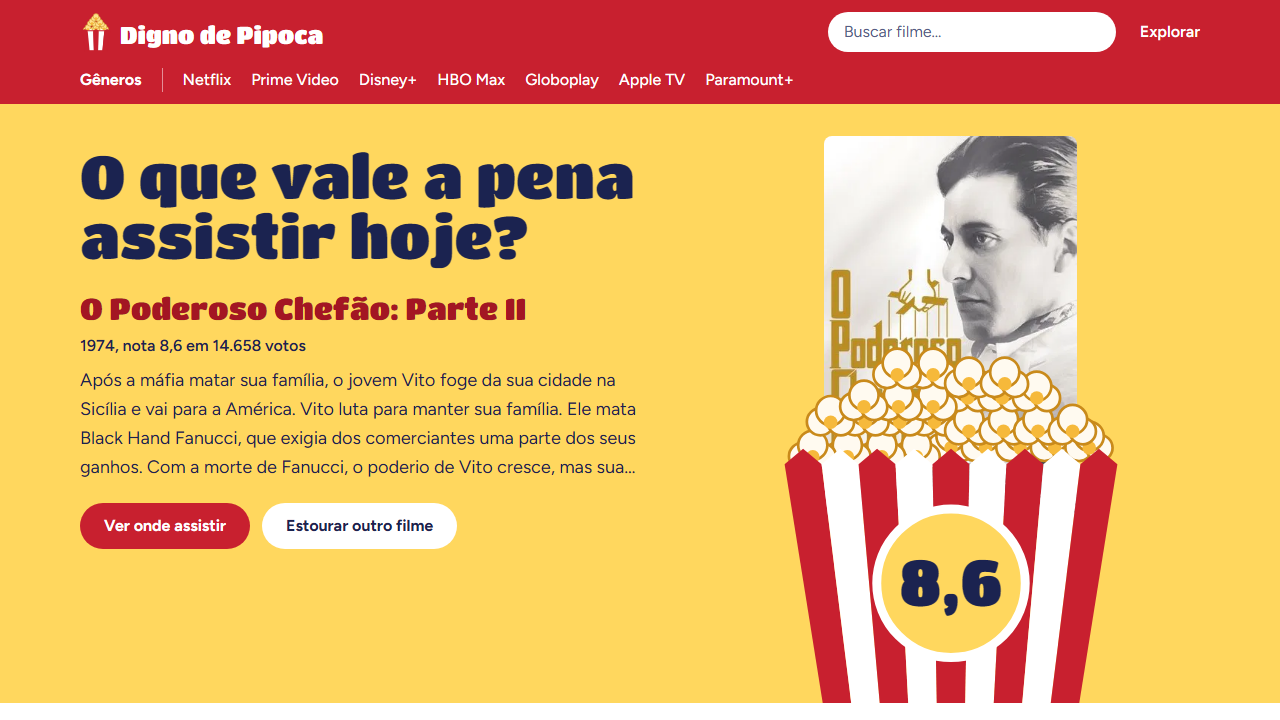
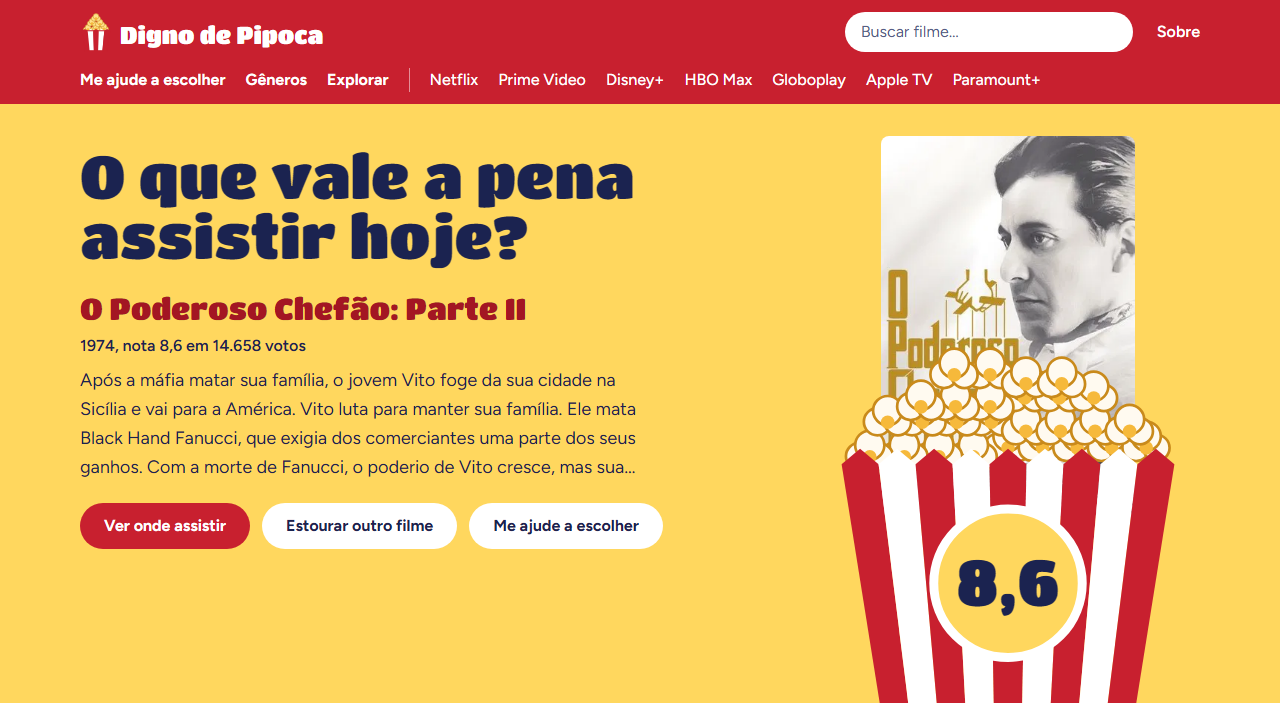
fix: link Sobre no topo e botão Me ajude a escolher no padrão do site

diff --git a/src/components/FeaturedPicker.tsx b/src/components/FeaturedPicker.tsx
@@ -40,7 +40,7 @@ export function FeaturedPicker({ movies, heading = "O que vale a pena assistir h
 
   return (
     <section aria-label="Filme em destaque" className="faixa -mt-6 mb-8 overflow-hidden bg-butter">
-      <div className="grid gap-x-12 gap-y-6 pt-8 lg:min-h-[36rem] lg:grid-cols-[1.15fr_1fr] lg:grid-rows-[1fr_auto_1fr]">
+      <div className="grid gap-x-8 gap-y-6 xl:gap-x-12 pt-8 lg:min-h-[36rem] lg:grid-cols-[1fr_24rem] lg:grid-rows-[1fr_auto_1fr]">
         <div className="space-y-2 lg:self-end">
           <h1 className="text-4xl sm:text-5xl lg:text-6xl">{heading}</h1>
           {note && <p className="text-lg font-semibold">{note}</p>}
@@ -83,7 +83,7 @@ export function FeaturedPicker({ movies, heading = "O que vale a pena assistir h
               {movie.overview && <p className="line-clamp-4 max-w-xl text-lg leading-relaxed">{movie.overview}</p>}
             </div>
           </div>
-          <div className="flex flex-wrap gap-3">
+          <div className="flex flex-wrap gap-2 xl:gap-3">
             <Link href={`/filme/${movie.id}`} className="botao">
               Ver onde assistir
             </Link>
@@ -93,7 +93,7 @@ export function FeaturedPicker({ movies, heading = "O que vale a pena assistir h
               </button>
             )}
             {helpLink && (
-              <Link href="/escolher" className="self-center font-bold underline underline-offset-4">
+              <Link href="/escolher" className="botao botao-claro">
                 Me ajude a escolher
               </Link>
             )}

diff --git a/src/components/Header.tsx b/src/components/Header.tsx
@@ -22,20 +22,25 @@ export function Header() {
             className="w-full rounded-full bg-white px-4 py-2 text-foreground placeholder:text-muted"
           />
         </form>
-        <Link href="/explorar" className="ml-auto font-semibold underline-offset-4 hover:underline sm:ml-0">
-          Explorar
+        <Link href="/sobre" className="ml-auto font-semibold underline-offset-4 hover:underline sm:ml-0">
+          Sobre
         </Link>
       </div>
-      <nav aria-label="Gêneros e serviços" className="mx-auto max-w-6xl trilho overflow-x-auto px-4 pb-2">
+      <nav aria-label="Navegação principal" className="mx-auto max-w-6xl trilho overflow-x-auto px-4 pb-2">
         <ul className="flex gap-5 py-1 font-medium whitespace-nowrap">
           <li>
             <Link href="/escolher" className="font-bold underline-offset-4 hover:underline">
               Me ajude a escolher
             </Link>
           </li>
-          <li className="border-r border-white/50 pr-5">
+          <li>
             <Link href="/generos" className="font-bold underline-offset-4 hover:underline">
               Gêneros
+            </Link>
+          </li>
+          <li className="border-r border-white/50 pr-5">
+            <Link href="/explorar" className="font-bold underline-offset-4 hover:underline">
+              Explorar
             </Link>
           </li>
           {COVERED_SERVICES.map((s) => (

diff --git a/tests/components/basics.test.tsx b/tests/components/basics.test.tsx
@@ -66,6 +66,7 @@ describe("Header", () => {
     expect(input.closest("form")).toHaveAttribute("action", "/busca");
     expect(screen.getByRole("link", { name: "Digno de Pipoca" })).toHaveAttribute("href", "/");
     expect(screen.getByRole("link", { name: "Explorar" })).toHaveAttribute("href", "/explorar");
+    expect(screen.getByRole("link", { name: "Sobre" })).toHaveAttribute("href", "/sobre");
     expect(screen.getByRole("link", { name: "Gêneros" })).toHaveAttribute("href", "/generos");
     expect(screen.getByRole("link", { name: "Netflix" })).toHaveAttribute("href", "/servico/netflix");
   });

diff --git a/tests/components/featured-picker.test.tsx b/tests/components/featured-picker.test.tsx
@@ -18,6 +18,15 @@ describe("FeaturedPicker", () => {
   });
 });
 
+describe("ajuda para escolher", () => {
+  it("é um botão como os outros e leva a /escolher", () => {
+    render(<FeaturedPicker movies={[m(1), m(2)]} helpLink />);
+    const link = screen.getByRole("link", { name: "Me ajude a escolher" });
+    expect(link).toHaveAttribute("href", "/escolher");
+    expect(link).toHaveClass("botao", "botao-claro");
+  });
+});
+
 describe("kernelCount", () => {
   it("enche conforme a nota", () => {
     expect(kernelCount(9, 10, 27)).toBe(27);
